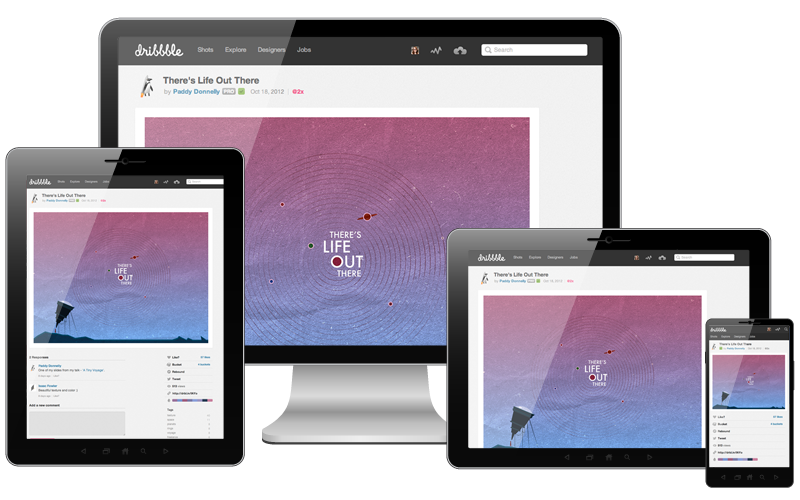
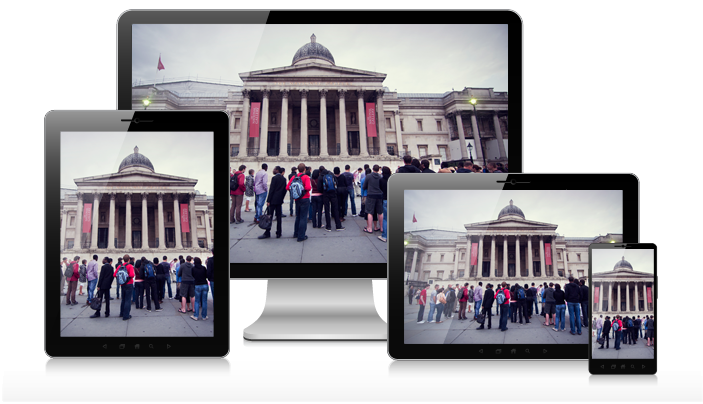
added new image to replace dribbble one.

diff --git a/index.src.html b/index.src.html
@@ -187,9 +187,9 @@ span{
       <dt>RICG Final Specification Licensing Commitments:</dt>
       <dd><a href="http://www.w3.org/community/respimg/spec/26/commitments">http://www.w3.org/community/respimg/spec/26/commitments</a></dd>
     </dl>
-    <p class="copyright w3c"><a href="http://www.w3.org/Consortium/Legal/ipr-notice#Copyright">Copyright</a> © 0001 <a href="http://www.w3.org/"><acronym title="World Wide Web Consortium">W3C</acronym></a><sup>®</sup> (<a href="http://www.csail.mit.edu/"><acronym title="Massachusetts Institute of Technology">MIT</acronym></a>, <a href="http://www.ercim.eu/"><acronym title="European Research Consortium for Informatics and Mathematics">ERCIM</acronym></a>, <a href="http://www.keio.ac.jp/">Keio</a>), All Rights Reserved. W3C <a href="http://www.w3.org/Consortium/Legal/ipr-notice#Legal_Disclaimer">liability</a>, <a href="http://www.w3.org/Consortium/Legal/ipr-notice#W3C_Trademarks">trademark</a> and <a href="http://www.w3.org/Consortium/Legal/copyright-documents">document use</a> rules apply.</p>
-    
-    <p class="copyright RICG">Copyright &copy; [YEAR] the Contributors to the <cite>Use Cases and Requirements for Standardizing Responsive Images</cite> Specification, published by the <a href="http://www.w3.org/community/respimg/">Responsive Images Community Group</a> under the <a href="https://www.w3.org/community/about/agreements/cla/">W3C Community Contributor License Agreement (CLA)</a>. A human-readable <a href="http://www.w3.org/community/about/agreements/cla-deed/">summary</a> is available.</p>
+  <p class="copyright w3c"><a href="http://www.w3.org/Consortium/Legal/ipr-notice#Copyright">Copyright</a> © [YEAR] <a href="http://www.w3.org/"><abbr title="World Wide Web Consortium">W3C</abbr></a><sup>®</sup> (<a href="http://www.csail.mit.edu/"><abbr title="Massachusetts Institute of Technology">MIT</abbr></a>, <a href="http://www.ercim.eu/"><abbr title="European Research Consortium for Informatics and Mathematics">ERCIM</abbr></a>, <a href="http://www.keio.ac.jp/">Keio</a>), All Rights Reserved. W3C <a href="http://www.w3.org/Consortium/Legal/ipr-notice#Legal_Disclaimer">liability</a>, <a href="http://www.w3.org/Consortium/Legal/ipr-notice#W3C_Trademarks">trademark</a> and <a href="http://www.w3.org/Consortium/Legal/copyright-documents">document use</a> rules apply.</p>
+  
+  <p class="copyright ricg">Copyright &copy; [YEAR] the Contributors to the <cite>Use Cases and Requirements for Standardizing Responsive Images</cite> Specification, published by the <a href="http://www.w3.org/community/respimg/">Responsive Images Community Group</a> under the <a href="https://www.w3.org/community/about/agreements/cla/">W3C Community Contributor License Agreement (CLA)</a>. A human-readable <a href="http://www.w3.org/community/about/agreements/cla-deed/">summary</a> is available.</p>
   </div>
 <hr>
 </header>
